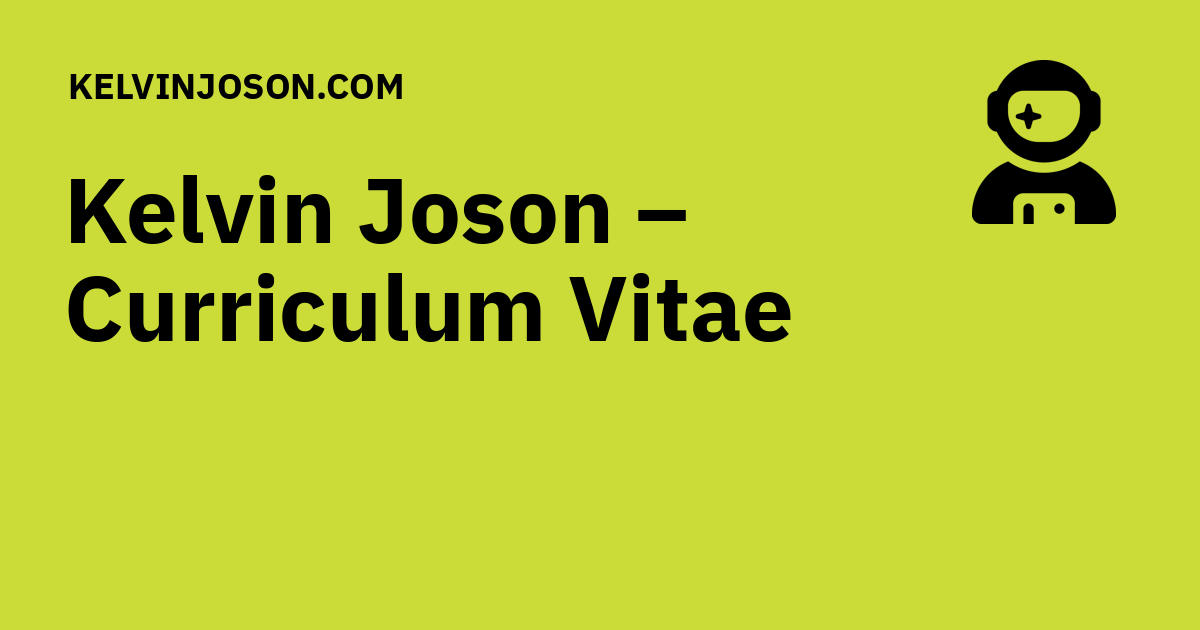
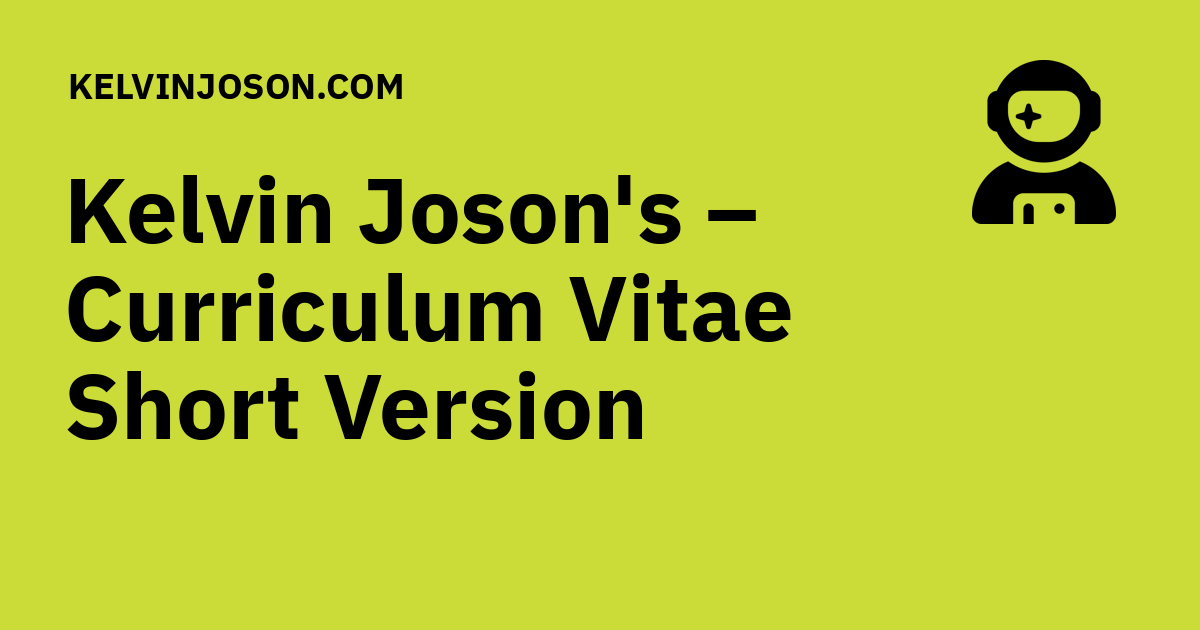
Deployed fb9c51e with MkDocs version: 1.6.1

Changed region(s): [[0.0308, 0.573, 0.555, 0.6937], [0.4933, 0.2714, 0.6475, 0.3921]]

diff --git a/Curriculum Vitae_short/index.html b/Curriculum Vitae_short/index.html
@@ -22,7 +22,7 @@
     
     
       
-        <title>Kelvin Joson – Curriculum Vitae - KELVINJOSON.COM</title>
+        <title>Kelvin Joson's – Curriculum Vitae Short Version - KELVINJOSON.COM</title>
       
     
     
@@ -71,7 +71,7 @@
       
         <meta  property="og:type"  content="website" >
       
-        <meta  property="og:title"  content="Kelvin Joson – Curriculum Vitae - KELVINJOSON.COM" >
+        <meta  property="og:title"  content="Kelvin Joson's – Curriculum Vitae Short Version - KELVINJOSON.COM" >
       
         <meta  property="og:description"  content="None" >
       
@@ -87,7 +87,7 @@
       
         <meta  name="twitter:card"  content="summary_large_image" >
       
-        <meta  name="twitter:title"  content="Kelvin Joson – Curriculum Vitae - KELVINJOSON.COM" >
+        <meta  name="twitter:title"  content="Kelvin Joson's – Curriculum Vitae Short Version - KELVINJOSON.COM" >
       
         <meta  name="twitter:description"  content="None" >
       
@@ -121,7 +121,7 @@
     <div data-md-component="skip">
       
         
-        <a href="#kelvin-joson-curriculum-vitae" class="md-skip">
+        <a href="#kelvin-josons-curriculum-vitae-short-version" class="md-skip">
           Skip to content
         </a>
       
@@ -179,7 +179,7 @@
         <div class="md-header__topic" data-md-component="header-topic">
           <span class="md-ellipsis">
             
-              Kelvin Joson – Curriculum Vitae
+              Kelvin Joson's – Curriculum Vitae Short Version
             
           </span>
         </div>
@@ -322,7 +322,7 @@
   
     
   
-  Kelvin Joson – Curriculum Vitae
+  Kelvin Joson's – Curriculum Vitae Short Version
 
       </a>
     </li>
@@ -426,7 +426,7 @@
           
   
   <span class="md-ellipsis">
-    Kelvin Joson – Curriculum Vitae
+    Kelvin Joson's – Curriculum Vitae Short Version
     
   </span>
   
@@ -438,7 +438,7 @@
         
   
   <span class="md-ellipsis">
-    Kelvin Joson – Curriculum Vitae
+    Kelvin Joson's – Curriculum Vitae Short Version
     
   </span>
   
@@ -571,7 +571,7 @@
 
 
 
-<h1 id="kelvin-joson-curriculum-vitae"><strong>Kelvin Joson – Curriculum Vitae</strong><a class="headerlink" href="#kelvin-joson-curriculum-vitae" title="Permanent link">⚑</a></h1>
+<h1 id="kelvin-josons-curriculum-vitae-short-version"><strong>Kelvin Joson's – Curriculum Vitae Short Version</strong><a class="headerlink" href="#kelvin-josons-curriculum-vitae-short-version" title="Permanent link">⚑</a></h1>
 <hr />
 <h2 id="contact-information"><strong>Contact Information</strong><a class="headerlink" href="#contact-information" title="Permanent link">⚑</a></h2>
 <ul>
@@ -680,7 +680,7 @@
     <span class="md-icon" title="Last update">
       <svg xmlns="http://www.w3.org/2000/svg" viewBox="0 0 24 24"><path d="M21 13.1c-.1 0-.3.1-.4.2l-1 1 2.1 2.1 1-1c.2-.2.2-.6 0-.8l-1.3-1.3c-.1-.1-.2-.2-.4-.2m-1.9 1.8-6.1 6V23h2.1l6.1-6.1zM12.5 7v5.2l4 2.4-1 1L11 13V7zM11 21.9c-5.1-.5-9-4.8-9-9.9C2 6.5 6.5 2 12 2c5.3 0 9.6 4.1 10 9.3-.3-.1-.6-.2-1-.2s-.7.1-1 .2C19.6 7.2 16.2 4 12 4c-4.4 0-8 3.6-8 8 0 4.1 3.1 7.5 7.1 7.9l-.1.2z"/></svg>
     </span>
-    <span class="git-revision-date-localized-plugin git-revision-date-localized-plugin-timeago" title="December 2, 2025 08:18:04"><span class="timeago" datetime="2025-12-02T08:18:04+00:00" locale="en"></span></span><span class="git-revision-date-localized-plugin git-revision-date-localized-plugin-iso_date" title="December 2, 2025 08:18:04">2025-12-02</span>
+    <span class="git-revision-date-localized-plugin git-revision-date-localized-plugin-timeago" title="December 2, 2025 08:44:19"><span class="timeago" datetime="2025-12-02T08:44:19+00:00" locale="en"></span></span><span class="git-revision-date-localized-plugin git-revision-date-localized-plugin-iso_date" title="December 2, 2025 08:44:19">2025-12-02</span>
   </span>
 
     

diff --git a/Curriculum Vitae/index.html b/Curriculum Vitae/index.html
@@ -324,7 +324,7 @@
   
     
   
-  Kelvin Joson – Curriculum Vitae
+  Kelvin Joson's – Curriculum Vitae Short Version
 
       </a>
     </li>
@@ -823,7 +823,7 @@
         
   
   <span class="md-ellipsis">
-    Kelvin Joson – Curriculum Vitae
+    Kelvin Joson's – Curriculum Vitae Short Version
     
   </span>
   
@@ -1225,13 +1225,13 @@ Hybrid · Full-time · Jul 2025 – Present</p>
         
         
           
-          <a href="../Curriculum%20Vitae_short/" class="md-footer__link md-footer__link--next" aria-label="Next: Kelvin Joson – Curriculum Vitae">
+          <a href="../Curriculum%20Vitae_short/" class="md-footer__link md-footer__link--next" aria-label="Next: Kelvin Joson&#39;s – Curriculum Vitae Short Version">
             <div class="md-footer__title">
               <span class="md-footer__direction">
                 Next
               </span>
               <div class="md-ellipsis">
-                Kelvin Joson – Curriculum Vitae
+                Kelvin Joson's – Curriculum Vitae Short Version
               </div>
             </div>
             <div class="md-footer__button md-icon">

diff --git a/404.html b/404.html
@@ -285,7 +285,7 @@
   
     
   
-  Kelvin Joson – Curriculum Vitae
+  Kelvin Joson's – Curriculum Vitae Short Version
 
       </a>
     </li>
@@ -380,7 +380,7 @@
         
   
   <span class="md-ellipsis">
-    Kelvin Joson – Curriculum Vitae
+    Kelvin Joson's – Curriculum Vitae Short Version
     
   </span>
   

diff --git a/index.html b/index.html
@@ -324,7 +324,7 @@
   
     
   
-  Kelvin Joson – Curriculum Vitae
+  Kelvin Joson's – Curriculum Vitae Short Version
 
       </a>
     </li>
@@ -429,7 +429,7 @@
         
   
   <span class="md-ellipsis">
-    Kelvin Joson – Curriculum Vitae
+    Kelvin Joson's – Curriculum Vitae Short Version
     
   </span>
   
